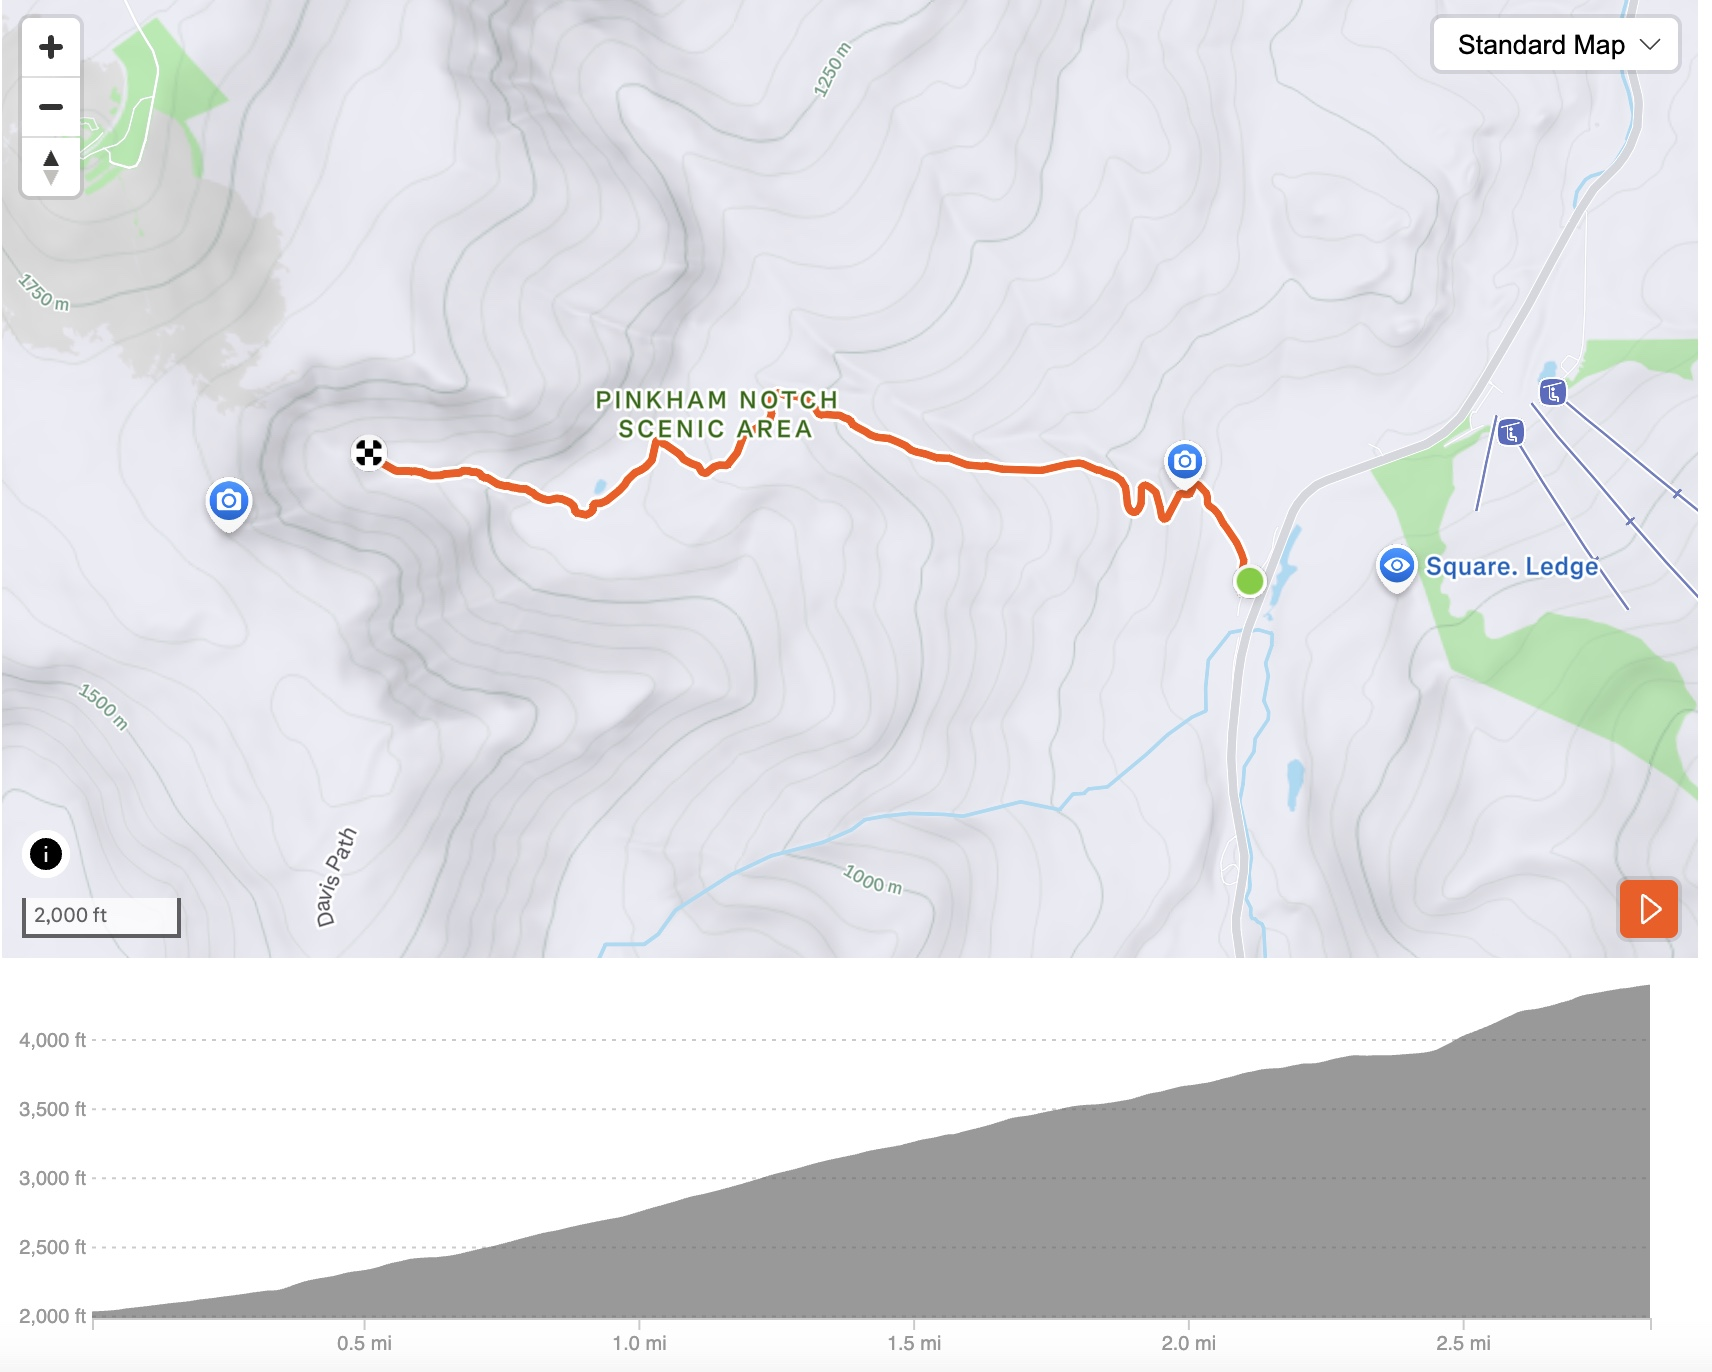
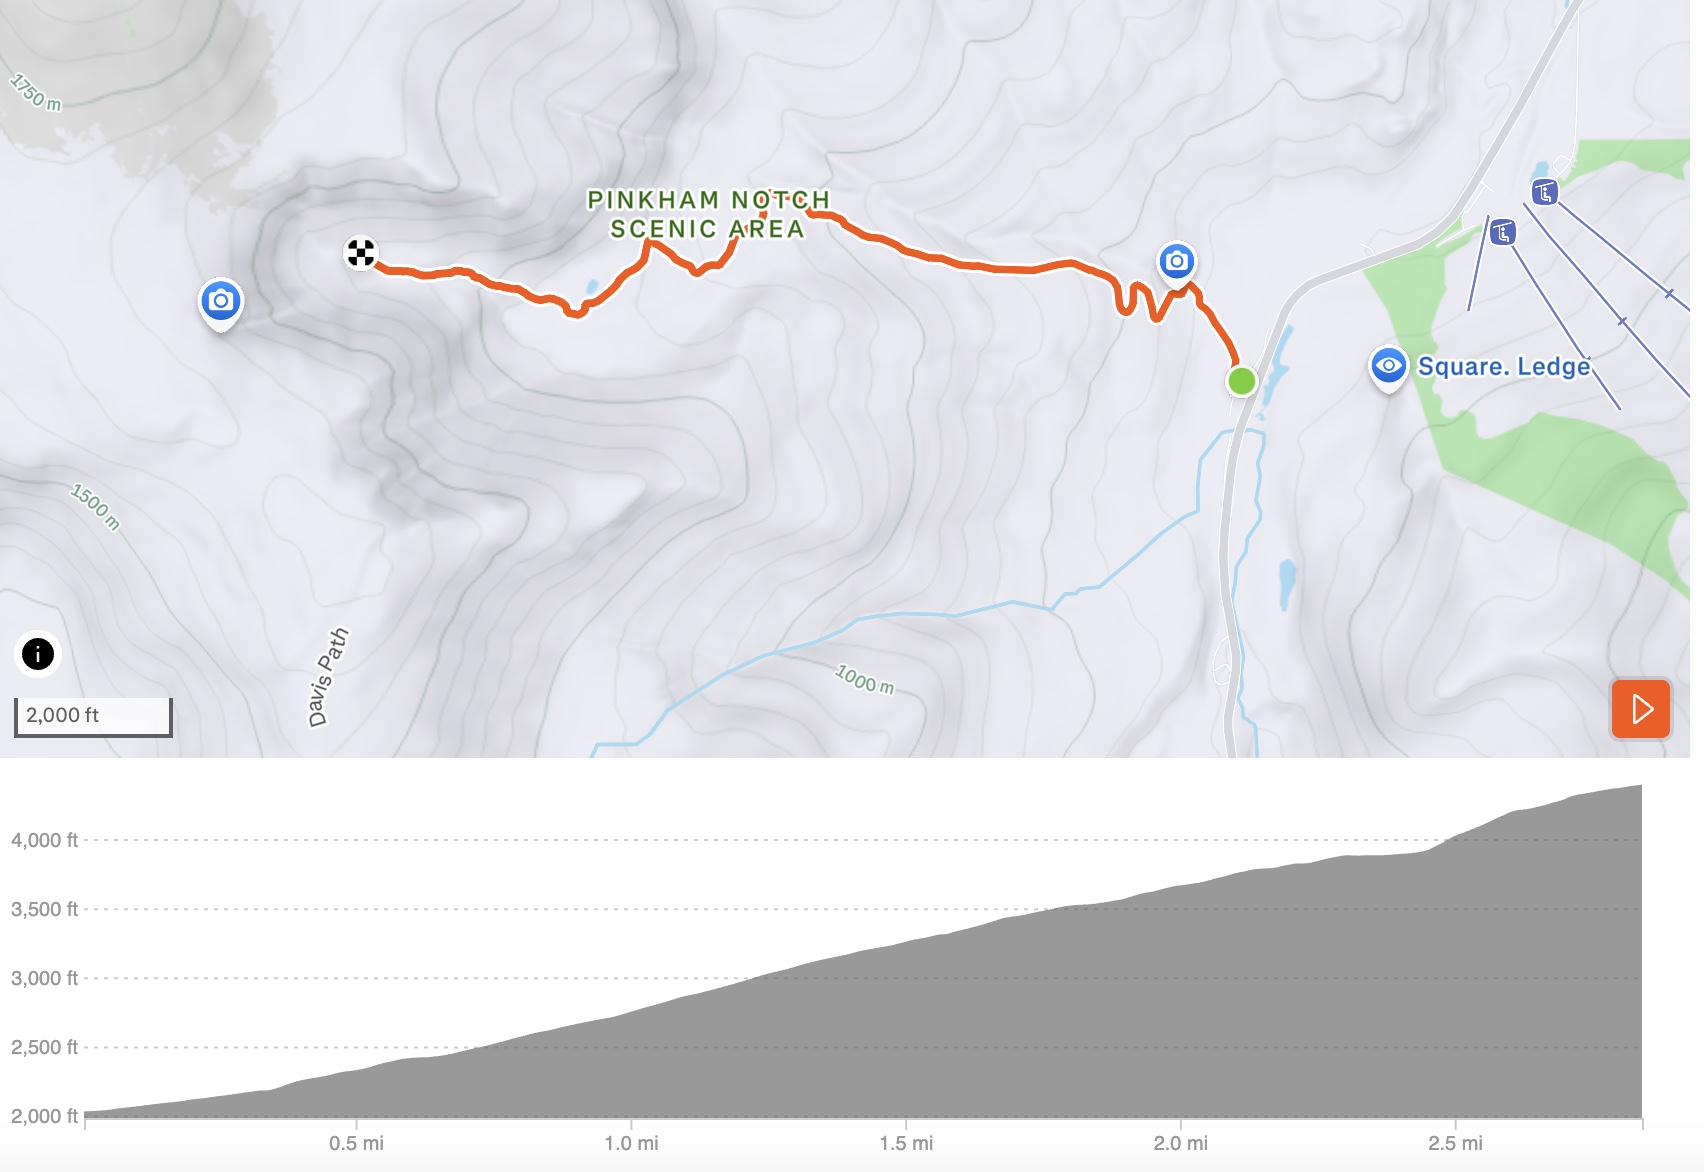
added api call for current weather

diff --git a/weather/scriptCurWeather.js b/weather/scriptCurWeather.js
@@ -1,0 +1,44 @@
+htmlElement = document.getElementById("jsDiv");
+
+htmlElement.innerHTML = '<p>test123</p>';
+
+let currentTemp = "Error: Not found";
+let currentPrecipitation = "Error: Not found";
+let currentWindSpeed = "Error: Not found";
+let currentWindDirection = "Error: Not found";
+let currentForecast = "Error: Not found";
+
+
+async function fetchForecast () {
+    let response = await fetch("https://api.weather.gov/gridpoints/GYX/33,80/forecast")
+    try {
+        if (response.status !== 200) {
+            console.log(`error code found: ${response.status}`);
+            return;
+        }
+        let data = await response.json();
+        currentTemp = data["properties"]["periods"][0]["temperature"];
+        currentPrecipitation = data["properties"]["periods"][0]
+                                   ["probabilityOfPrecipitation"]["value"];
+        currentWindSpeed = data["properties"]["periods"][0]["windSpeed"];
+        currentWindDirection = data["properties"]["periods"][0]["windDirection"];
+        currentForecast = data["properties"]["periods"][0]["shortForecast"];
+    } catch (err) {
+        console.log(`error happened: ${err}`);
+    }
+}
+
+async function buildHTML () {
+    await fetchForecast();
+    htmlElement.innerHTML = `
+        <div id="temperature">
+        <p>${currentTemp}</p>
+        <p>${currentPrecipitation}</p>
+        <p>${currentWindSpeed}</p>
+        <p>${currentWindDirection}</p>
+        <p>${currentForecast}</p>
+        </div>
+    `
+}
+
+buildHTML();

diff --git a/index.html b/index.html
@@ -29,7 +29,7 @@
                     <li class="dropdown">
                         <a href="./weather/weather.html">Weather</a>
                         <ul class="dropdown-content">
-                            <li><a href="#">Current Conditions</a></li>
+                            <li><a href="./weather/currentWeather.html">Current Conditions</a></li>
                             <li><a href="#">Forecast</a></li>
                         </ul>
                     </li>
@@ -46,5 +46,9 @@
             <img id="mainPageBowl" src="./pictures/mainPageBowl.jpg"/>
         </div>
 
+        <hr>
+
+        <h1 id="mapTitle">Route/Elevation</h1>
+        <img id="mapToBowl" src="./pictures/mapToBowl.jpg">
     </body>
 </html>

diff --git a/indexStyle.css b/indexStyle.css
@@ -83,7 +83,6 @@ li a:hover {
 
 #itemsOnImage {
     grid-area: overlay;
-    margin-bottom: 50%;
 }
 
 #mainPageBowl {
@@ -104,5 +103,25 @@ li a:hover {
     padding-top: 10px;
     padding-bottom: 10px;
 
+}
+
+hr {
+    margin-top: 30px;
+    color: #a52a2a;
+}
+
+#mapTitle {
+    text-align: center;
+    background-color: #a52a2a;
+    color: white;
+    margin-left: 550px;
+    margin-right: 550px;
+    border-radius: 5px;
+}
+
+#mapToBowl {
+    border-radius: 5px;
+    max-width: 100%;
+    width: auto;
 }
 

diff --git a/weather/currentWeather.html b/weather/currentWeather.html
@@ -1,0 +1,13 @@
+<!DOCTYPE html>
+<html> 
+    <head>
+        <title>Current Weather at Tuckerman's</title>
+        <link rel="stylesheet" href="./currentStyle.css"/>
+    </head>
+    <body>
+        <h1>Current Weather at Tuckerman's Ravine</h1>
+        <div id="jsDiv"></div>
+        <script type="text/javascript" src="./scriptCurWeather.js"></script>
+    </body>
+</html>
+
